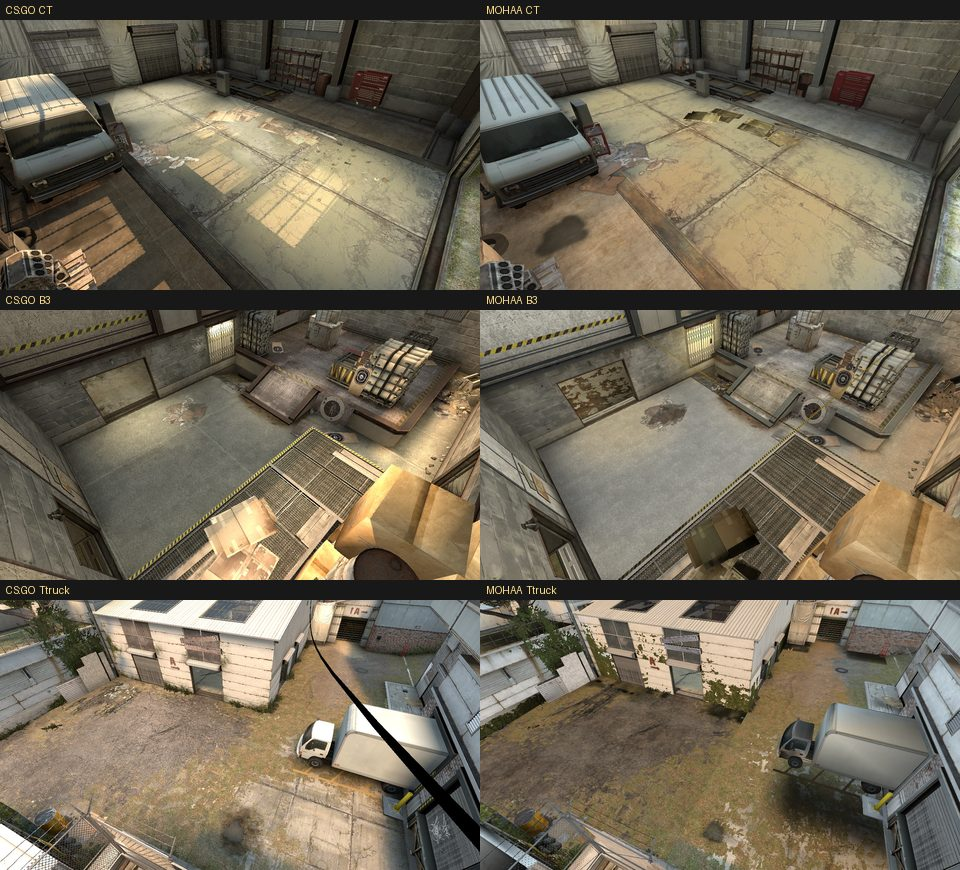
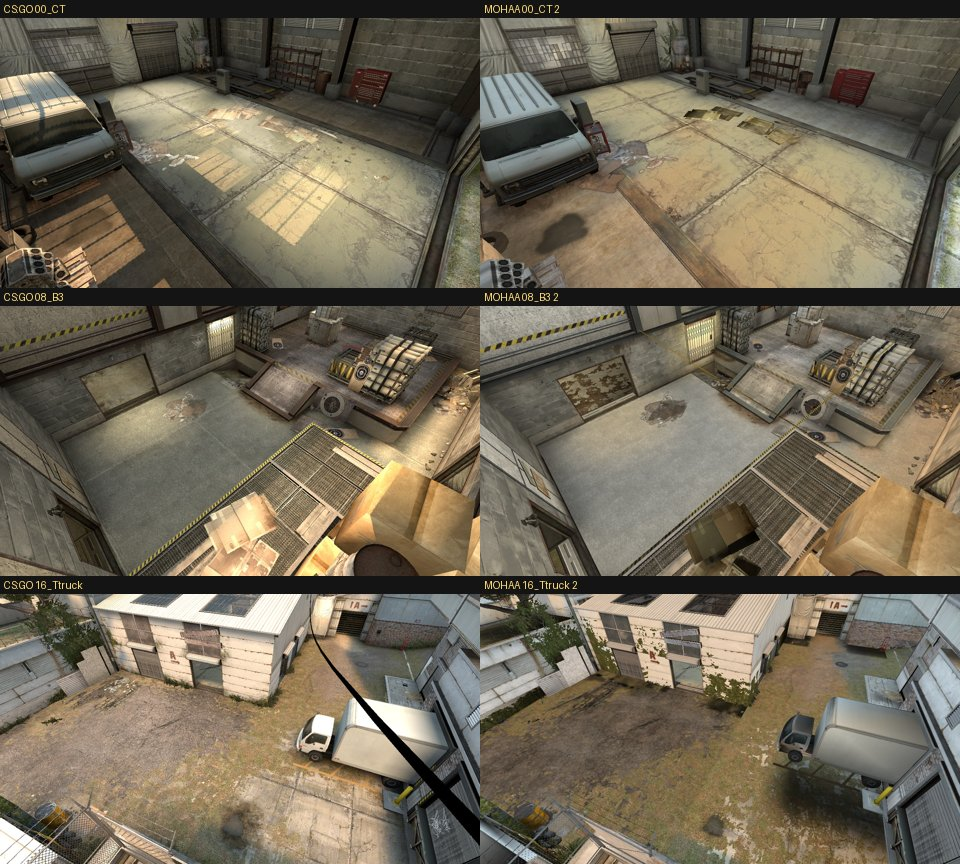
README: fps before/after per converted map, new side-by-side images; HANDOFF

diff --git a/HANDOFF.md b/HANDOFF.md
@@ -36,12 +36,31 @@ whether another session runs: none does; only lane A (`final2.sh`, NOINSTALL) fr
   **exposure fits and shots of dust2/mirage/inferno/nuke/cbble were contaminated**. Harness now
   sets fs_apppath/steampath/gogpath to the base; `mohkit install` warns on jpg/tga clashes
   (`pak.image_clashes`; installed folder: only cs_nuke's own 3).
-- **Done 20:05:** all six (dust2 mirage inferno nuke cbble vertigo) re-packaged with LOD
-  (`local/csgo/lod_resume.sh`, logs `lod_a/b.log`). **Running 20:10:** clean re-shoot + re-fit
-  (`local/csgo/refit.sh`, `refit_a.log`: dust2 inferno vertigo cache; `refit_b.log`: mirage nuke
-  cbble). **Then:** `local/csgo/perf_ab.sh de_x ...` (installed vs new fps, `perf_ab.log`), look
-  at sheets vs CS:GO, install all, README images. Threshold blends have hard edges where CS:GO
-  is soft (dust2 mask r ~0.39): possible 2-stage dither later (costs a pass).
+- **Harness drew with r_primitives 0** (fd6ac3f): Apple GL has no compiled vertex arrays, so 0
+  sends each triangle strip as glBegin/glEnd = one Metal draw per strip (`sample` profile);
+  de_inferno 6 fps vs 84 with 2, same image. The owner's omconfig.cfg already has
+  `r_primitives 2`; the harness now sets it. All numbers below use it (1280x720, no bots).
+- **fps A/B, installed -> LOD (mean / worst camera):** dust2 206/99 -> 325/187, mirage 199/64
+  -> 337/168, inferno 82/27 -> 181/92, nuke 39/22 -> 88/65, cache 174/67 -> 270/141, cbble
+  93/40 -> 218/130, vertigo 153/82 -> 240/171 (`local/csgo/perf_ab.log`). Runs vary ~+-30% per
+  camera: compare interleaved, repeated.
+- **Prop fades (09b112a):** CS:GO's per-prop fade distances -> LOD vanish steps (docs). Inferno
+  181/91 -> 250/152 (two interleaved runs), nuke 88 -> 95 (its cost is merged `_autocombine_`
+  clusters, radius 800-1300; splitting them would need SKD budget). Renderer limit found: 2,048
+  shaders per level (sort key), so no per-fade shaders.
+- **Exposures re-fitted with clean shots (20:10-20:28):** dust2 2.32, mirage 1.09, inferno 2.69,
+  nuke 1.115, cbble 0.857, vertigo 1.56, cache 2.02. Errors vs CS:GO: mirage 4.1, cbble 4.8,
+  dust2 5.0, nuke 5.4, inferno 6.3, cache 9.6, vertigo 9.8.
+- **Done 22:20: all seven installed** (dust2 mirage inferno nuke cache cbble vertigo: LOD + fades,
+  clean exposure fits, threshold blends). Final fps (mean / worst, installed-before -> now):
+  dust2 206/99 -> 305/193, mirage 199/64 -> 342/168, inferno 82/27 -> 229/141, nuke 39/22 ->
+  98/64, cache 174/67 -> 308/239, cbble 93/40 -> 229/141, vertigo 153/82 -> 235/178. README
+  table + images updated (`local/csgo/readme_img.py`). Rats untouched (user: stop on rats).
+- **Next (suggested):** nuke's merged `_autocombine_` clusters (split spatially for LOD/fade,
+  within the 600-SKD budget); soft threshold-blend edges; Vertigo's dark portal sky above the
+  city; real VIS for world surfaces (~2 ms of the frame now).
+- Threshold blends have hard edges where CS:GO's are soft (dust2 mask r ~0.39); a 2-stage
+  dither would cost a pass. Not done.
 
 ## Session (2026-10-01 from 16:05): ladders, exposure fit, blend textures
 

diff --git a/README.md b/README.md
@@ -88,15 +88,20 @@ converted map in OpenMoHAA. The converted maps use CS:GO's own baked lighting an
 fitted to these screenshots (`--fit-exposure`). Converted maps and their assets stay local
 (personal use); only these screenshots are in the repo.
 
-| map | brightness error vs CS:GO (0-255, all cameras) | ladders climbable | bot kills (8 bots, 90 s) |
-|---|---|---|---|
-| de_dust2 | 5.3 | none | 73 |
-| de_mirage | 4.1 | 3/3 | 68 |
-| de_nuke | 5.3 | 6/6 | 81 |
-| de_inferno | 6.0 | none | 26 |
-| de_cache | 9.6 | 1/1 | 28 |
-| de_vertigo | 10.6 | 3/3 | 48 |
-| de_cbble | 5.0 | 2/2 | 49 |
+| map | brightness error vs CS:GO (0-255, all cameras) | ladders climbable | bot kills (8 bots, 90 s) | fps mean / worst camera (before -> now) |
+|---|---|---|---|---|
+| de_dust2 | 4.9 | none | 87 | 206 / 99 -> 305 / 193 |
+| de_mirage | 4.1 | 3/3 | 72 | 199 / 64 -> 342 / 168 |
+| de_nuke | 5.6 | 6/6 | 78 | 39 / 22 -> 98 / 64 |
+| de_inferno | 6.4 | none | 26 | 82 / 27 -> 229 / 141 |
+| de_cache | 9.6 | 1/1 | 28 | 174 / 67 -> 308 / 239 |
+| de_vertigo | 10.7 | 3/3 | 48 | 153 / 82 -> 235 / 178 |
+| de_cbble | 4.8 | 2/2 | 47 | 93 / 40 -> 229 / 141 |
+
+fps: OpenMoHAA on an Apple M4, 1280x720, retail high detail, `r_primitives 2`, at every
+camera (`python -m mohkit csgo <map> --perf 2000`); "before" is the build installed until
+2026-10-01 evening, "now" adds prop LOD and CS:GO's prop fade distances. Keep
+`seta r_primitives "2"` in your config: on macOS the default draws these maps about 10x slower.
 
 What still differs is mostly the engine: MOHAA has no bump maps, specular highlights,
 reflections or bloom, so surfaces look flatter. Only de_vertigo keeps CS:GO's 3D skybox (its
